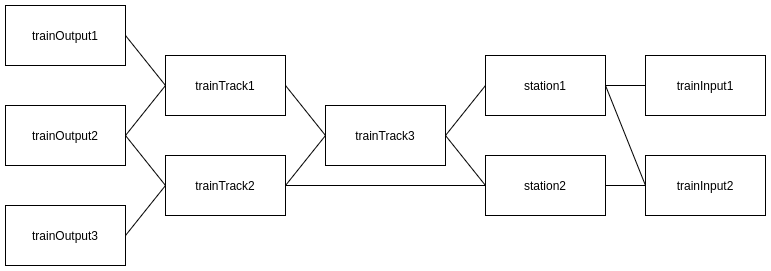
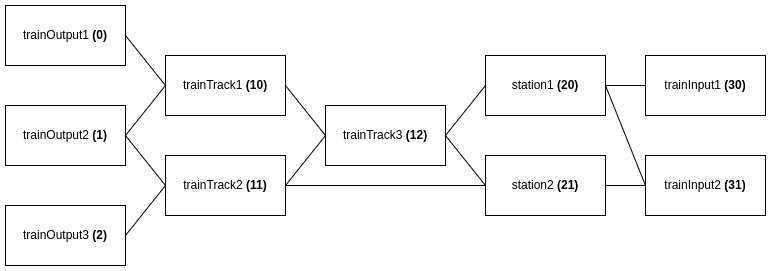
Fixed an error where some TrainTrack ID's were set up wrong in setup.cpp. Also updated the diagram of TrainTracks and their ID's

diff --git a/setup.cpp b/setup.cpp
@@ -67,7 +67,7 @@ TrainTrackHolder::TrainTrackHolder(void)
 
     ListOfTrainTracksFortrainOutput3.insert(std::make_pair(trainTrack2.GetID(),&trainTrack2));
 
-    TrainOutput trainOutput3(ListOfTrainTracksFortrainOutput3,0);
+    TrainOutput trainOutput3(ListOfTrainTracksFortrainOutput3,2);
     trainOutputs.push_back(trainOutput3);
 
 
@@ -86,7 +86,7 @@ TrainTrackHolder::TrainTrackHolder(void)
 
     ListOfTrainTracksFortrainOutput1.insert(std::make_pair(trainTrack1.GetID(),&trainTrack1));
 
-    TrainOutput trainOutput1(ListOfTrainTracksFortrainOutput1,2);
+    TrainOutput trainOutput1(ListOfTrainTracksFortrainOutput1,0);
     trainOutputs.push_back(trainOutput1);
 
 }
